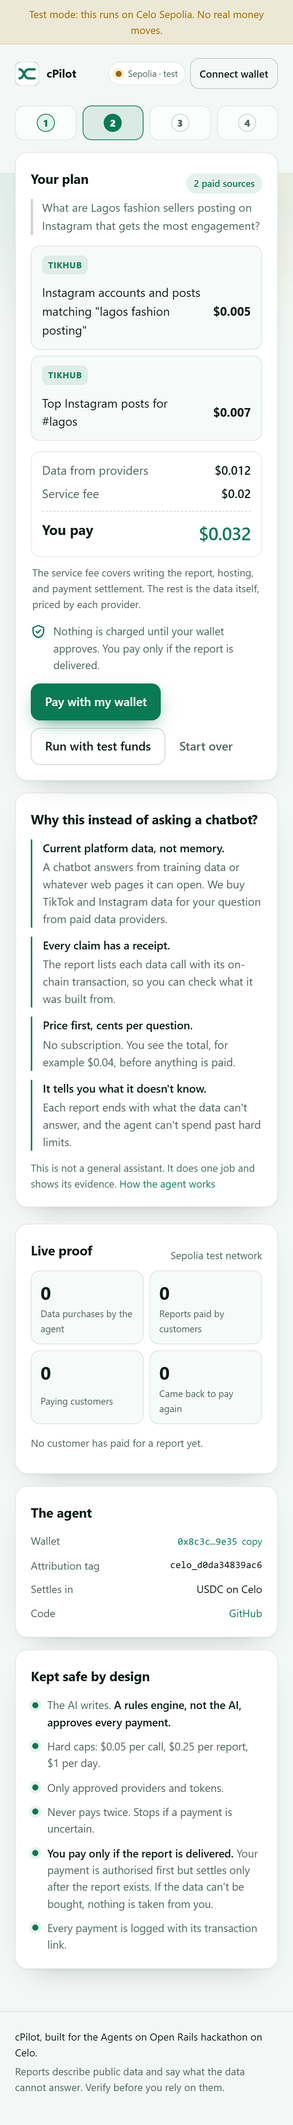
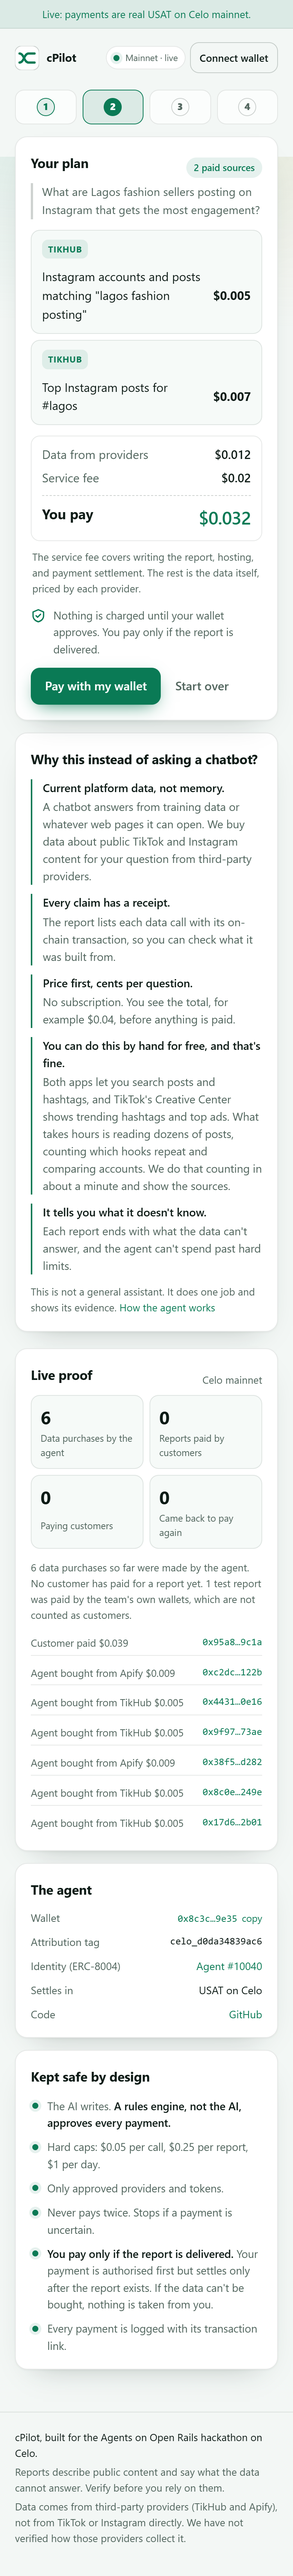
Receipts render the report (safe markdown) and label data calls S1..S3; evidence: first settled customer payment on the live mainnet site (team wallet), with the failures kept on record; +2 tests

Changed region(s): [[0.0, 0.0, 1.0, 0.9986], [0.8, 0.9674, 0.8308, 0.9986]]

diff --git a/src/web/receipt.ts b/src/web/receipt.ts
@@ -12,7 +12,7 @@ export interface ReceiptView {
   customerTx: string | null;
   /** Status of the customer's payment: only "settled" means money actually moved. */
   customerStatus?: string | null;
-  purchases: Array<{ title: string; usd: string; status: string; tx: string | null }>;
+  purchases: Array<{ ref?: string; title: string; usd: string; status: string; tx: string | null }>;
 }
 
 const esc = (s: unknown) => String(s ?? "").replace(/[&<>"']/g, (c) => ({ "&": "&amp;", "<": "&lt;", ">": "&gt;", '"': "&quot;", "'": "&#39;" })[c]!);
@@ -20,10 +20,50 @@ const esc = (s: unknown) => String(s ?? "").replace(/[&<>"']/g, (c) => ({ "&": "
 const txLink = (base: string, tx: string | null) =>
   tx && /^0x[0-9a-fA-F]{64}$/.test(tx) ? `<a href="${esc(base + tx)}" target="_blank" rel="noopener">${esc(tx.slice(0, 10))}…</a>` : '<span class="mute">n/a</span>';
 
+/** Inline **bold** and `code` on text that has ALREADY been HTML-escaped. */
+const inline = (escaped: string) => escaped.replace(/\*\*([^*]+)\*\*/g, "<strong>$1</strong>").replace(/`([^`]+)`/g, "<code>$1</code>");
+
+/** A small, safe markdown renderer for reports: headings, bullets, numbered lists, bold, code. Everything is escaped first. */
+export function renderReportHtml(text: string): string {
+  const out: string[] = [];
+  let list: "ul" | "ol" | null = null;
+  const closeList = () => {
+    if (list) out.push(`</${list}>`);
+    list = null;
+  };
+  for (const raw of String(text).replace(/\r/g, "").split("\n")) {
+    const line = raw.trim();
+    if (!line) {
+      closeList();
+      continue;
+    }
+    const h = /^#{1,4}\s+(.*)$/.exec(line);
+    const b = /^[-*•]\s+(.*)$/.exec(line);
+    const n = /^\d+[.)]\s+(.*)$/.exec(line);
+    if (h) {
+      closeList();
+      out.push(`<h4>${inline(esc(h[1]))}</h4>`);
+    } else if (b || n) {
+      const type = b ? "ul" : "ol";
+      if (list !== type) {
+        closeList();
+        out.push(`<${type}>`);
+        list = type;
+      }
+      out.push(`<li>${inline(esc((b ?? n)![1]))}</li>`);
+    } else {
+      closeList();
+      out.push(`<p>${inline(esc(line))}</p>`);
+    }
+  }
+  closeList();
+  return out.join("\n");
+}
+
 /** Public, shareable receipt. The plan id is an unguessable UUID; only the report and payment facts are shown. */
 export function renderReceipt(v: ReceiptView): string {
   const rows = v.purchases
-    .map((p) => `<tr><td>${esc(p.title)}</td><td>$${esc(p.usd)}</td><td class="${p.status === "settled" ? "ok" : "warn"}">${esc(p.status)}</td><td>${txLink(v.explorerTx, p.tx)}</td></tr>`)
+    .map((p) => `<tr><td>${p.ref ? "<b>" + esc(p.ref) + "</b> " : ""}${esc(p.title)}</td><td>$${esc(p.usd)}</td><td class="${p.status === "settled" ? "ok" : "warn"}">${esc(p.status)}</td><td>${txLink(v.explorerTx, p.tx)}</td></tr>`)
     .join("");
   return `<!doctype html>
 <html lang="en"><head><meta charset="utf-8"><meta name="viewport" content="width=device-width,initial-scale=1">
@@ -36,12 +76,12 @@ main{max-width:760px;margin:0 auto;padding:20px 16px 60px}h1{font-size:1.4rem;ma
 .card{background:var(--card);border:1px solid var(--line);border-radius:12px;padding:16px;margin:14px 0}
 .mute{color:var(--mute)}.ok{color:var(--acc)}.warn{color:var(--warn)}a{color:var(--acc)}
 table{width:100%;border-collapse:collapse;font-size:.92rem}td,th{padding:7px 4px;border-bottom:1px solid var(--line);text-align:left}
-pre{white-space:pre-wrap;word-break:break-word;font:inherit;margin:0}.badge{display:inline-block;padding:2px 10px;border-radius:99px;border:1px solid var(--line);font-size:.8rem;color:var(--mute)}
+pre{white-space:pre-wrap;word-break:break-word;font:inherit;margin:0}.rep h4{margin:14px 0 4px;font-size:1rem}.rep p{margin:6px 0}.rep ul,.rep ol{margin:6px 0 6px 1.2em;padding:0}.rep li{margin:5px 0}.rep code{background:var(--bg);padding:1px 5px;border-radius:5px}.badge{display:inline-block;padding:2px 10px;border-radius:99px;border:1px solid var(--line);font-size:.8rem;color:var(--mute)}
 </style></head><body><main>
 <h1>cPilot receipt</h1>
 <p class="mute"><span class="badge">${esc(v.network)}</span> ${esc(new Date(v.createdAt).toUTCString())}</p>
 <div class="card"><strong>Question</strong><p>${esc(v.question)}</p></div>
-<div class="card"><strong>Report</strong> <span class="mute">written by ${esc(v.writtenBy)}</span><pre style="margin-top:8px">${esc(v.report)}</pre></div>
+<div class="card"><strong>Report</strong> <span class="mute">written by ${esc(v.writtenBy)}</span><div class="rep">${renderReportHtml(v.report)}</div></div>
 <div class="card"><strong>What was bought</strong>
 <table><tr><th>Data call</th><th>USD</th><th>Status</th><th>Transaction</th></tr>${rows}</table>
 <p class="mute">Data cost $${esc(v.dataUsd)}</p></div>

diff --git a/test/app.test.ts b/test/app.test.ts
@@ -142,6 +142,10 @@ describe("a full run (operator test-funds path)", () => {
     const html = await page.text();
     expect(html).toContain("What hooks work for small AI creators on TikTok?");
     expect(html).toContain("Run this question again");
+    expect(html).toContain("<h4>What the data shows</h4>"); // the report is rendered, not shown as raw markdown
+    expect(html).toContain("<li>");
+    expect(html).not.toContain("## What the data shows");
+    expect(html).toContain("<b>S1</b>");
 
     expect(await json(await app.request("/api/receipt/" + plan.id))).toMatchObject({ planId: plan.id, dataUsd: "0.014" });
     const prog = await json(await app.request("/api/progress/" + plan.id));
@@ -300,5 +304,26 @@ describe("rate limits", () => {
 
   it("refuses to start with a nonsense limit instead of silently disabling it", () => {
     expect(() => make({ env: { RATE_PLANS_PER_HOUR: "lots" } })).toThrow(/positive integer/);
+  });
+});
+
+import { renderReportHtml } from "../src/web/receipt.js";
+
+describe("renderReportHtml (reports contain text from an AI and from data providers: it must never inject markup)", () => {
+  it("escapes HTML before formatting anything", () => {
+    const html = renderReportHtml('## Title <img src=x onerror=alert(1)>\n- **bold** <script>alert(1)</script> and `code`');
+    expect(html).not.toContain("<script>");
+    expect(html).not.toContain("<img");
+    expect(html).toContain("&lt;script&gt;");
+    expect(html).toContain("<strong>bold</strong>");
+    expect(html).toContain("<code>code</code>");
+    expect(html).toContain("<h4>");
+    expect(html).toContain("<li>");
+  });
+  it("renders plain paragraphs and numbered lists", () => {
+    const html = renderReportHtml("intro line\n\n1. first\n2. second");
+    expect(html).toContain("<p>intro line</p>");
+    expect(html).toContain("<ol>");
+    expect(html.match(/<li>/g)).toHaveLength(2);
   });
 });

diff --git a/src/app.ts b/src/app.ts
@@ -214,7 +214,7 @@ export function createApp(d: AppDeps): Hono {
       payer: r.payer,
       customerTx: inRow?.txHash ?? null,
       customerStatus: inRow?.status ?? null,
-      purchases: (r.payments as Array<{ title: string; usd: string; status: string; tx: string | null }>).map((p) => ({ title: p.title, usd: p.usd, status: p.status, tx: p.tx })),
+      purchases: (r.payments as Array<{ ref?: string; title: string; usd: string; status: string; tx: string | null }>).map((p) => ({ ref: p.ref, title: p.title, usd: p.usd, status: p.status, tx: p.tx })),
     };
   }
   app.get("/r/:planId", (c) => {

diff --git a/EVIDENCE.md b/EVIDENCE.md
@@ -43,3 +43,23 @@ Important limits of this evidence:
 - The three data purchases are an **operator smoke test** (one report, run locally by the project owner with the agent wallet). They are **not customer payments**.
 - **No customer has paid on mainnet yet.** Customer counts in the product are zero until that happens.
 - The report from this run is saved in `docs/examples/first-mainnet-report.md`.
+
+## Live site, customer-payment flow on Celo mainnet (team wallet), 2026-11-05
+A full end-to-end run on the live site, https://c-sme-production.up.railway.app, receipt page: [/r/1ea7216d-07cd-4246-9d4d-822a844532fc](https://c-sme-production.up.railway.app/r/1ea7216d-07cd-4246-9d4d-822a844532fc).
+
+| Step | Transaction | What happened |
+|---|---|---|
+| Funding of the test customer wallet | [0x88ad2b7fa8…](https://celoscan.io/tx/0x88ad2b7fa8cd68bfeb90bcfe45f5e175524d5fa48721e85afa7637a5dd00c80b) | Agent wallet sent $0.05 USA₮ to the project owner's own wallet `0x7216…bfCc` so it could act as a test customer. |
+| **Customer payment (settled)** | [0x95a8b13048…](https://celoscan.io/tx/0x95a8b130481e9328b2b2513371cfb605b0407db457ffe2dbe41dd791ab1a9c1a) | `0x7216…bfCc` paid $0.039 USA₮ to the agent wallet through Celo's x402 facilitator. |
+| Data purchase S1 (TikHub) | [0x9f97b99f41…](https://celoscan.io/tx/0x9f97b99f4185e772af6788d09afa6a7e6dd5f9ae576f870b0d743f33b2ac73ae) | $0.005 |
+| Data purchase S2 (TikHub) | [0x443135735c…](https://celoscan.io/tx/0x443135735c1369ebdf8fed9b8ad5e8313e672355f95d2e2d8144c08425a10e16) | $0.005 |
+| Data purchase S3 (Apify) | [0xc2dcb8632f…](https://celoscan.io/tx/0xc2dcb8632fd5040f15c45532926154412fb580862398db65560d9e880ff5122b) | $0.009 |
+
+All five were verified on-chain (status success; amounts and addresses as listed). The customer paid $0.039; the agent paid $0.019 for data; the $0.020 difference is the service fee.
+
+**This is a team test, not independent usage.** The paying wallet belongs to the project owner and was funded by the agent wallet. The live "Live proof" panel counts it under "team test reports", not under customers, and the site's customer counts remain zero until someone outside the team pays.
+
+### Things that went wrong during testing (kept here for honesty)
+- **Self-payment refused.** The agent wallet tried to pay its own site as a customer. The facilitator refused: "The payer and the recipient are the same address… refused before it reached the chain, so nothing was spent." No customer money moved, but the agent had already bought $0.019 of data. The site now rejects a self-payment before buying anything.
+- **An earlier test run** (about 13 minutes before) also bought $0.019 of data whose customer payment did not settle. The project owner confirmed that was their own test. The same up-front check now prevents that case.
+- **Sandbox allowance.** The buy gateway's test sandbox limits each paying address per day, which is why the live demo runs on mainnet.
